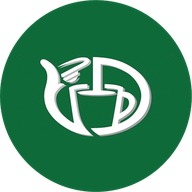
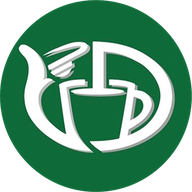
ピンのカップを丸いっぱい近くまで大きく

Changed region(s): [[0.0938, 0.1875, 0.9375, 0.8125]]

diff --git a/index.html b/index.html
@@ -76,7 +76,7 @@ font-size:15px;padding:12px 24px;cursor:pointer;display:inline-flex;align-items:
 .scf-loc .scf-more{border:1px solid var(--g);background:rgba(255,255,255,.7);color:var(--g);border-radius:9999px;padding:10px;font:inherit;font-weight:700;cursor:pointer;transition:all .3s}
 .scf-loc .scf-more:hover{background:rgba(146,175,12,.5)}
 .scf-loc .scf-note{font-size:12px;color:var(--sub);margin-top:10px}
-/* 店舗のピン: 白いしずく型に緑の縁、中央に余白をとってセルフカフェのマーク（mark.png＝カップだけを丸の中央に。文字は外す＝ユーザー指定）。検索結果は大きくして右上に順位（2026-10-17 ユーザーの手描き案） */
+/* 店舗のピン: 白いしずく型に緑の縁、中央に余白をとってセルフカフェのマーク（mark.png＝カップだけを丸いっぱい近く＝直径の8割に。文字は外す＝ユーザー指定）。検索結果は大きくして右上に順位（2026-10-17 ユーザーの手描き案） */
 .scf-loc .scf-mk{cursor:pointer;line-height:0}
 .scf-loc .scf-pinsvg{display:block;width:40px;height:52px;filter:drop-shadow(0 2px 2px rgba(0,0,0,.3));overflow:visible}
 .scf-loc .scf-mk.on .scf-pinsvg{width:54px;height:70px}
@@ -172,7 +172,7 @@ font-family:"Jost",sans-serif;font-size:12px;font-weight:600;display:none;place-
 // 店舗一覧の控え（座標つき）。HP の REST は返事に 8 秒ほどかかるので、まずこれで表示し、最新情報が届いたら差し替える
 var SNAP = [{"id":2691,"name":"セルフカフェ 木曽岬店","url":"https://selfcafe.jp/shop/mie/kisomisaki/","address":"三重県桑名郡木曽岬町大字西対海地２５１木曽岬町役場内１階","time":"[月火水木] 8:30～18:00 [金] 8:30～20:00 [土・日・祝休日]9:00～17:00","holiday":"年末年始","access":"木曽岬町自主運行バス 源緑見入線 木曽岬町体育館駅停留所より徒歩2分","svc":[],"parking":"有","lat":35.075695,"lng":136.73085},{"id":3224,"name":"セルフカフェ フィールズ南柏店","url":"https://selfcafe.jp/shop/chiba/fields-minamikashiwa/","address":"千葉県柏市南柏中央６－７フィールズ南柏モールⅡ３階","time":"10:00～20:00","holiday":"無し","access":"JR 常磐線南柏駅徒歩１分","svc":["koshitu"],"parking":"有","lat":35.844086,"lng":139.955124},{"id":531,"name":"セルフカフェ 印西牧の原店","url":"https://selfcafe.jp/shop/chiba/inzaimakinohara/","address":"千葉県印西市原１－２ＢＩＧＨＯＰガーデンモール印西１階","time":"10:00~20:00","holiday":"無し","access":"北総線 「印西牧の原」駅徒歩10分","svc":[],"parking":"施設内駐車場あり","lat":35.803074,"lng":140.164886},{"id":2306,"name":"セルフカフェ カインズ上里本庄店","url":"https://selfcafe.jp/shop/saitama/cainzkamisatohonjo/","address":"埼玉県児玉郡上里町大字神保原町字北稲塚１８４５","time":"8：00～21：00","holiday":"無し","access":"高崎線 「神保原」駅 徒歩13分","svc":[],"parking":"施設駐車場あり","lat":36.258087,"lng":139.15477},{"id":904,"name":"セルフカフェ あべの南店","url":"https://selfcafe.jp/shop/osaka/abenominami/","address":"大阪府大阪市阿倍野区播磨町１－２１－１３ＤＭビル１階","time":"24時間営業","holiday":"無し","access":"大阪メトロ御堂筋線 「西田辺」駅、徒歩6分","svc":[],"parking":"無し","lat":34.622288,"lng":135.509109},{"id":2442,"name":"セルフカフェ イオンタウン東大阪店","url":"https://selfcafe.jp/shop/osaka/aeontownhigashiosaka/","address":"大阪府東大阪市東鴻池町１－６－３０","time":"7:00～24:00","holiday":"無し","access":"JR学研都市線 「住道駅」徒歩約21分","svc":[],"parking":"施設駐車場あり","lat":34.693275,"lng":135.618057},{"id":1880,"name":"セルフカフェ 上新庄店","url":"https://selfcafe.jp/shop/osaka/kamishinjo/","address":"大阪府大阪市東淀川区瑞光１－１２－１２至誠ビル１０２","time":"5:00～24:30","holiday":"無し","access":"阪急京都線 「上新庄」駅、徒歩1分","svc":["koshitu"],"parking":"無し","lat":34.749062,"lng":135.533859},{"id":1203,"name":"セルフカフェ 京橋北店","url":"https://selfcafe.jp/shop/osaka/kyoubashikita/","address":"大阪府大阪市都島区東野田町５－１５－５大野マンション１階","time":"24時間営業","holiday":"無し","access":"JR大阪環状線・JR東西線・JR片町線・京阪本線・大阪メトロ長堀鶴見緑地線 「京橋」駅、徒歩8分","svc":["koshitu"],"parking":"無し","lat":34.702007,"lng":135.535294},{"id":922,"name":"セルフカフェ 南森町店","url":"https://selfcafe.jp/shop/osaka/minamimorimati/","address":"大阪府大阪市北区東天満２－１０－３１第９田渕ビル１階","time":"24時間営業","holiday":"無し","access":"ＪＲ東西線・学研都市線 「大阪天満宮」駅、徒歩5分 大阪メトロ堺筋線 「南森町」駅、徒歩5分","svc":[],"parking":"無し","lat":34.698376,"lng":135.513626},{"id":1485,"name":"セルフカフェ 喜志店","url":"https://selfcafe.jp/shop/osaka/kishi/","address":"大阪府富田林市喜志５－３－３７メゾン・ド・ＭＩＹＡＶＩ１０１号室","time":"24時間営業","holiday":"無し","access":"近鉄長野線 「喜志」駅、徒歩3分","svc":["koshitu"],"parking":"無し","lat":34.521835,"lng":135.593506},{"id":1962,"name":"セルフカフェ 大阪平野西店","url":"https://selfcafe.jp/shop/osaka/osakahiranonishi/","address":"大阪府大阪市平野区平野西５－７－２Ｆｅｒｉｏ１階","time":"24時間営業","holiday":"無し","access":"大阪メトロ谷町線 「平野」駅、徒歩5分","svc":["koshitu"],"parking":"無し","lat":34.61924,"lng":135.546906},{"id":495,"name":"セルフカフェ 天満店","url":"https://selfcafe.jp/shop/osaka/tenma/","address":"大阪府大阪市北区天神橋３－８－２３コア扇町２階","time":"5:00～翌2:00","holiday":"無し","access":"大阪環状線「天満駅」徒歩5分。 大阪メトロ堺筋線「扇町駅」徒歩2分。","svc":["koshitu","kaigi","member"],"parking":"無し","lat":34.702076,"lng":135.511459},{"id":2852,"name":"セルフカフェ 天満橋北店","url":"https://selfcafe.jp/shop/osaka/tenmabashikita/","address":"大阪府大阪市中央区大手前１－３－４９ドーンセンター１階","time":"[火～土]9:00～21:30 [日・祝]9:00～17:00","holiday":"月曜日（祝日・振替休日を除く）・年末年始","access":"京阪本線・Osaka Metro谷町線「天満橋」駅 1番出入口より徒歩3分 JR東西線「大阪城北詰」駅 2号出口より徒歩5分","svc":[],"parking":"無し","lat":34.689968,"lng":135.520569},{"id":1201,"name":"セルフカフェ 太子橋店","url":"https://selfcafe.jp/shop/osaka/taishibashi/","address":"大阪府守口市京阪本通１－２－１０京阪キクマビル１０１号室","time":"24時間営業","holiday":"無し","access":"谷町線・今里筋線 「太子橋今市」駅、徒歩5分","svc":["koshitu"],"parking":"無し","lat":34.732952,"lng":135.557343},{"id":1103,"name":"セルフカフェ 守口駅前店","url":"https://selfcafe.jp/shop/osaka/moriguchiekimae/","address":"大阪府守口市京阪本通２－１６－８メゾンレクト１０２","time":"24時間営業","holiday":"無し","access":"大阪メトロ谷町線 「守口」駅、徒歩3分","svc":[],"parking":"無し","lat":34.738842,"lng":135.564102},{"id":1211,"name":"セルフカフェ 心斎橋東急ビル店","url":"https://selfcafe.jp/shop/osaka/shinsaibashitokyuubiru/","address":"大阪府大阪市中央区南船場４－４－３心斎橋東急ビルＢ１階","time":"5：00～24：00","holiday":"無し","access":"御堂筋線「心斎橋」駅、徒歩1分。","svc":[],"parking":"無し","lat":34.675686,"lng":135.500076},{"id":763,"name":"セルフカフェ 東大阪小若江店","url":"https://selfcafe.jp/shop/osaka/kowakae/","address":"大阪府東大阪市小若江２－９－３３アバハイム西村","time":"24時間営業","holiday":"無し","access":"近鉄大阪線 「長瀬」駅、徒歩で10分","svc":[],"parking":"無し","lat":34.648731,"lng":135.583664},{"id":1568,"name":"セルフカフェ 梅田センタービル店","url":"https://selfcafe.jp/shop/osaka/umedacenterbldg/","address":"大阪府大阪市北区中崎西２－４－１２梅田センタービル地下１階","time":"6:30～23:30","holiday":"無し","access":"阪急電鉄 「大阪梅田」駅、徒歩７分。 大阪メトロ谷町線 「中崎町」駅、徒歩４分","svc":[],"parking":"無し","lat":34.705372,"lng":135.501572},{"id":760,"name":"セルフカフェ 相川駅前店","url":"https://selfcafe.jp/shop/osaka/aikawaekimae/","address":"大阪府大阪市東淀川区相川２－２０－８上本第二ビル１階","time":"5：00～4：00","holiday":"無し","access":"阪急京都本線 「相川」駅、徒歩1分","svc":[],"parking":"無し","lat":34.758106,"lng":135.534393},{"id":2445,"name":"セルフカフェ 蒲生四丁目店","url":"https://selfcafe.jp/shop/osaka/gamoyonchome/","address":"大阪府大阪市城東区今福西１－７－２蒲生四丁目駅前ビル２階","time":"24時間営業","holiday":"無し","access":"Osaka Metro 長堀鶴見緑地線・今里筋線 「蒲生四丁目」駅 徒歩約1分","svc":["koshitu"],"parking":"無し","lat":34.699749,"lng":135.546432},{"id":950,"name":"セルフカフェ 谷町九丁目店","url":"https://selfcafe.jp/shop/osaka/tanimachi9choume/","address":"大阪府大阪市中央区谷町９－５－１６バロンヴェールビル１０１","time":"24時間営業","holiday":"無し","access":"大阪メトロ千日前線, 谷町線 「谷町九丁目」駅、徒歩1分","svc":["koshitu","copy"],"parking":"無し","lat":34.668152,"lng":135.515823},{"id":3384,"name":"セルフカフェ 鶴見横堤店","url":"https://selfcafe.jp/shop/osaka/tsurumiyokozutsumi/","address":"大阪府大阪市鶴見区横堤３－１０－１９堤之ビル２階","time":"24時間","holiday":"無し","access":"大阪メトロ長堀鶴見緑地線「横堤駅」より徒歩2分","svc":["koshitu"],"parking":"無し","lat":34.703575,"lng":135.573547},{"id":3247,"name":"セルフカフェ大阪駅前第４ビル店","url":"https://selfcafe.jp/shop/osaka/osaka-ekimae4-building/","address":"大阪府大阪市北区梅田１－１１－４大阪駅前第４ビル１階４０号","time":"7:00～23:45","holiday":"毎年1月1日～3日","access":"大阪メトロ谷町線東梅田駅南改札より徒歩約1分（直結） JR東西線北新地駅東改札より徒歩約3分（地下街直結） 大阪メトロ御堂筋線梅田駅南改札より 徒歩約5分","svc":[],"parking":"無し","lat":34.699581,"lng":135.499298},{"id":3239,"name":"セルフカフェ イオンタウン大垣","url":"https://selfcafe.jp/shop/gifu/aeontown-ogaki/","address":"岐阜県大垣市三塚町丹瀬４６３－１イオンタウン大垣内","time":"10:30~22:00","holiday":"無し","access":"JR東海道本線 大垣駅 徒歩20分","svc":["koshitu","kaigi"],"parking":"有り","lat":35.365883,"lng":136.629562},{"id":2249,"name":"セルフカフェ イオンタウン岐阜北方店","url":"https://selfcafe.jp/shop/gifu/aeontowngifukitagata/","address":"岐阜県本巣郡北方町曲路東３－３－１イオンタウン岐阜北方内","time":"8：00～22：00","holiday":"無し","access":"JR岐阜駅よりバス約23分 「イオンタウン岐阜北方」下車","svc":[],"parking":"施設駐車場あり","lat":35.429836,"lng":136.697495},{"id":1480,"name":"セルフカフェ 盛岡大通店","url":"https://selfcafe.jp/shop/iwate/moriokaoodori/","address":"岩手県盛岡市大通２－３－４","time":"5：00～24：00","holiday":"無し","access":"東北新幹線.JR 「盛岡」駅、徒歩15分。 路線バス中央通2丁目 「中央通2丁目」、徒歩5分。","svc":["koshitu","kaigi"],"parking":"無し","lat":39.703125,"lng":141.146729},{"id":1106,"name":"セルフカフェ 盛岡駅前店","url":"https://selfcafe.jp/shop/iwate/moriokaekimae/","address":"岩手県盛岡市盛岡駅前通１５－１６ＳＳビル盛岡","time":"24時間営業","holiday":"無し","access":"JR東北本線 盛岡駅北口、徒歩1分。","svc":[],"parking":"無し","lat":39.703175,"lng":141.136002},{"id":1225,"name":"セルフカフェ T-FACE豊田店","url":"https://selfcafe.jp/shop/aichi/toyota/","address":"愛知県豊田市若宮町１－５７－１Ｔ－ＦＡＣＥ６階","time":"10：00～20：00","holiday":"無し","access":"名鉄豊田線・名鉄三河線・地下鉄鶴舞線・愛知環状鉄道 「豊田市」駅、徒歩1分","svc":["koshitu","kaigi","copy"],"parking":"施設駐車場あり","lat":35.087593,"lng":137.155624},{"id":96,"name":"セルフカフェ ささしまライブ店","url":"https://selfcafe.jp/shop/aichi/sasashima/","address":"愛知県名古屋市中村区平池町４－６０－１４マーケットスクエアささしま１階","time":"8:00~22:00","holiday":"無し","access":"JR・名鉄 JR、名鉄、近鉄、名古屋市営地下鉄東山線・桜通線「名古屋」駅、徒歩13分。 あおなみ線 名古屋臨海高速鉄道あおなみ線「ささしまライブ」駅より徒歩4分。","svc":["kaigi"],"parking":"無し","lat":35.16172,"lng":136.882553},{"id":1109,"name":"セルフカフェ クラスポ蒲郡店","url":"https://selfcafe.jp/shop/aichi/gamagori/","address":"愛知県蒲郡市鹿島町浅井新田１－２６","time":"10:00～20:00","holiday":"無し","access":"名鉄蒲郡線 「三河鹿島」駅、徒歩10分。","svc":[],"parking":"施設内駐車場あり","lat":34.811646,"lng":137.195023},{"id":745,"name":"セルフカフェ ナディアパーク栄店","url":"https://selfcafe.jp/shop/aichi/nadyaparksakae/","address":"愛知県名古屋市中区栄３－１８－１ナディアパーククレアーレ内１階","time":"11:00~20:00","holiday":"無し","access":"名古屋市営東山線・名城線 「栄」駅、徒歩で10分。 名古屋市名城線 「矢場町」駅、徒歩で10分。","svc":[],"parking":"無し","lat":35.165794,"lng":136.904938},{"id":1123,"name":"セルフカフェ ルビットタウン刈谷店","url":"https://selfcafe.jp/shop/aichi/luvittown-kariya/","address":"愛知県刈谷市高倉町２－６０１ルビットタウン刈谷１階","time":"月～土：10:00～20:00 日：9:30～20:00","holiday":"無し","access":"JR東海道本線 「逢妻」駅、徒歩19分","svc":[],"parking":"施設駐車場あり","lat":35.002117,"lng":136.998566},{"id":384,"name":"セルフカフェ 中村日赤店","url":"https://selfcafe.jp/shop/aichi/nakamuranisseki/","address":"愛知県名古屋市中村区寿町１０","time":"5:00～翌4:00","holiday":"無し","access":"名古屋市営地下鉄東山線「中村日赤」駅徒歩8分","svc":["koshitu","kaigi"],"parking":"無し","lat":35.170979,"lng":136.866837},{"id":989,"name":"セルフカフェ 中村日赤鳥居通店","url":"https://selfcafe.jp/shop/aichi/toriidori/","address":"愛知県名古屋市中村区鳥居通４－１６","time":"24時間営業","holiday":"無し","access":"名古屋市営地下鉄東山線 「中村日赤」駅、徒歩3分","svc":["koshitu"],"parking":"無し","lat":35.170956,"lng":136.859543},{"id":3289,"name":"セルフカフェ 丸の内店","url":"https://selfcafe.jp/shop/aichi/marunouchi/","address":"愛知県名古屋市中区錦２－６－１５ＮＨＮＩＳＨＩＫＩ３階","time":"6:00～24:00","holiday":"無し","access":"名古屋市営地下鉄桜通線 丸の内駅5番出口 徒歩2分","svc":["koshitu","kaigi"],"parking":"無し","lat":35.171684,"lng":136.900604},{"id":985,"name":"セルフカフェ 亀島店","url":"https://selfcafe.jp/shop/aichi/kamejima/","address":"愛知県名古屋市中村区佐古前町２２－１３森ビル１階","time":"6：00～翌1：00","holiday":"無し","access":"名古屋市営地下鉄東山線 「亀島」駅、徒歩5分","svc":["koshitu"],"parking":"無し","lat":35.177708,"lng":136.872711},{"id":543,"name":"セルフカフェ 六番町店","url":"https://selfcafe.jp/shop/aichi/rokubancho/","address":"愛知県名古屋市熱田区六番２－８－３２","time":"7:00~24:00","holiday":"無し","access":"名古屋市営地下鉄名港線 「六番町」駅徒歩8分","svc":[],"parking":"無し","lat":35.121223,"lng":136.888214},{"id":93,"name":"セルフカフェ 千種店","url":"https://selfcafe.jp/shop/aichi/chikusa/","address":"愛知県名古屋市東区葵３－２５－１５シティファミール千種","time":"24時間","holiday":"無し","access":"JR東海 中央本線 名古屋市営地下鉄東山線「千種」駅、徒歩1分。","svc":["koshitu"],"parking":"無し","lat":35.169899,"lng":136.929626},{"id":2080,"name":"セルフカフェ 原店","url":"https://selfcafe.jp/shop/aichi/hara/","address":"愛知県名古屋市天白区原１－２０７原駅前ビル１階","time":"6：00～翌1：00","holiday":"無し","access":"名古屋市営地下鉄鶴舞線 「原」駅、徒歩1分","svc":["kaigi"],"parking":"無し","lat":35.126011,"lng":136.995361},{"id":993,"name":"セルフカフェ 太閤通駅店","url":"https://selfcafe.jp/shop/aichi/taikodorieki/","address":"愛知県名古屋市中村区黄金通１－２９","time":"5:00~翌3:00","holiday":"無し","access":"名古屋市営地下鉄桜通線 「太閤通」駅、徒歩1分","svc":["koshitu","kaigi","member","copy"],"parking":"無し","lat":35.167114,"lng":136.872177},{"id":3353,"name":"セルフカフェ 安城駅店","url":"https://selfcafe.jp/shop/aichi/anjoeki/","address":"愛知県安城市御幸本町１－１","time":"5:00～翌2:00","holiday":"無し","access":"JR東海道本線 安城駅 徒歩１分","svc":["koshitu"],"parking":"無し","lat":34.959995,"lng":137.086914},{"id":879,"name":"セルフカフェ 布袋駅店","url":"https://selfcafe.jp/shop/aichi/hoteieki/","address":"愛知県江南市布袋町西布２１８ＭＯＫＵＫＩＣＨＩ１０区画","time":"24時間営業","holiday":"無し","access":"名鉄犬山線 「布袋駅」駅、徒歩1分","svc":[],"parking":"無し","lat":35.31786,"lng":136.872589},{"id":457,"name":"セルフカフェ 常滑店","url":"https://selfcafe.jp/shop/aichi/tokoname/","address":"愛知県常滑市鯉江本町５－１４０ミュープラット常滑","time":"5:00～翌4:00","holiday":"無し","access":"名古屋鉄道常滑線「常滑」駅徒歩1分","svc":[],"parking":"無し","lat":34.889641,"lng":136.835358},{"id":1099,"name":"セルフカフェ 幸田店","url":"https://selfcafe.jp/shop/aichi/kota/","address":"愛知県額田郡幸田町相見沖原１","time":"24時間営業","holiday":"無し","access":"JR東海道本線「相見」駅、徒歩10分","svc":["koshitu","member"],"parking":"施設内多数あり（カメリアガーデン内）","lat":34.887058,"lng":137.162903},{"id":346,"name":"セルフカフェ 御器所店","url":"https://selfcafe.jp/shop/aichi/gokiso/","address":"愛知県名古屋市昭和区阿由知通４－１８－１トーカンマンション御器所","time":"7:00~22:00","holiday":"無し","access":"名古屋市営地下鉄桜通線・鶴舞線「御器所」駅4番出口徒歩1分","svc":[],"parking":"無し","lat":35.147488,"lng":136.933273},{"id":459,"name":"セルフカフェ 新守山店","url":"https://selfcafe.jp/shop/aichi/shinmoriyama/","address":"愛知県名古屋市守山区新守山２８３０アピタパワー新守山２階","time":"10:00～22:00","holiday":"無し","access":"JR中央本線 「新守山」駅徒歩5分","svc":[],"parking":"施設内駐車場あり","lat":35.204765,"lng":136.948975},{"id":773,"name":"セルフカフェ 新瑞橋店","url":"https://selfcafe.jp/shop/aichi/aratamabashi/","address":"愛知県名古屋市瑞穂区瑞穂通８－１３－３","time":"6:00~翌3:00","holiday":"無し","access":"名古屋市営地下鉄桜通線 「新瑞橋」駅、徒歩1分","svc":[],"parking":"無し","lat":35.117249,"lng":136.936432},{"id":1207,"name":"セルフカフェ 日比野店","url":"https://selfcafe.jp/shop/aichi/hibino/","address":"愛知県名古屋市熱田区千代田町１３－４三木ビル１階","time":"6：00～24：00","holiday":"無し","access":"名古屋市営地下鉄 「日比野」駅、徒歩5分 名古屋市バス 「中央卸売市場前」駅、徒歩1分","svc":["koshitu","kaigi"],"parking":"無し","lat":35.135857,"lng":136.893005},{"id":1209,"name":"セルフカフェ 星ヶ丘店","url":"https://selfcafe.jp/shop/aichi/hoshigaoka/","address":"愛知県名古屋市千種区井上町５０－１ＣＯＺＹＰＬＡＣＥ星ヶ丘１階","time":"6：00～翌1：00","holiday":"無し","access":"名古屋市営地下鉄東山線 「星ヶ丘」駅、徒歩3分","svc":["koshitu"],"parking":"無し","lat":35.161858,"lng":136.983032},{"id":3282,"name":"セルフカフェ 本陣店","url":"https://selfcafe.jp/shop/aichi/honjin/","address":"愛知県名古屋市中村区鳥居通２－１０","time":"6:00～24:00","holiday":"無し","access":"名古屋市営地下鉄東山線 本陣駅4番出口 徒歩1分","svc":["koshitu","kaigi"],"parking":"無し","lat":35.175903,"lng":136.866028},{"id":535,"name":"セルフカフェ 栄店","url":"https://selfcafe.jp/shop/aichi/sakae/","address":"愛知県名古屋市中区錦３－１７－１５ドン・キホーテ栄本店６階","time":"6:00~翌2:00","holiday":"無し","access":"名古屋市営地下鉄東山線・名城線「栄」駅より徒歩1分。 名古屋鉄道瀬戸線「栄町」駅より徒歩5分","svc":[],"parking":"無し","lat":35.170097,"lng":136.90657},{"id":875,"name":"セルフカフェ 栄生店","url":"https://selfcafe.jp/shop/aichi/sako/","address":"愛知県名古屋市西区栄生２－４－５","time":"5:00～翌4:00","holiday":"無し","access":"名鉄名古屋本線 「栄生」駅、徒歩1分","svc":["koshitu","member"],"parking":"無し","lat":35.184032,"lng":136.873901},{"id":379,"name":"セルフカフェ 桜山店","url":"https://selfcafe.jp/shop/aichi/sakurayama/","address":"愛知県名古屋市昭和区広見町５－５６－６プチメゾン桜山","time":"5:00～翌4:00","holiday":"無し","access":"名古屋市営地下鉄桜通線「桜山」駅徒歩5分","svc":[],"parking":"無し","lat":35.140938,"lng":136.930359},{"id":1277,"name":"セルフカフェ 池下店","url":"https://selfcafe.jp/shop/aichi/ikeshita/","address":"愛知県名古屋市千種区池下１－１１－１１第４６プロスパー池下２階","time":"24時間営業","holiday":"無し","access":"名古屋市営地下鉄東山線 「池下」駅、徒歩1分","svc":["koshitu","kaigi","member"],"parking":"無し","lat":35.167633,"lng":136.945343},{"id":449,"name":"セルフカフェ 瀬戸岩屋堂店","url":"https://selfcafe.jp/shop/aichi/setoiwayado/","address":"愛知県瀬戸市岩屋町８１","time":"5:00～翌4:00","holiday":"無し","access":"国定公園「岩屋堂公園内」","svc":[],"parking":"無料駐車場多数あり ※有料になる時期もあります","lat":35.239231,"lng":137.156616},{"id":59,"name":"セルフカフェ 神沢店","url":"https://selfcafe.jp/shop/aichi/kamisawa/","address":"愛知県名古屋市緑区神沢１－２０５","time":"5:00～翌4:00","holiday":"無し","access":"名古屋市営地下鉄桜通線「神沢」駅徒歩1分。","svc":[],"parking":"無し","lat":35.098301,"lng":136.98941},{"id":386,"name":"セルフカフェ 緑鴻仏目店","url":"https://selfcafe.jp/shop/aichi/midorikoubutsume/","address":"愛知県名古屋市緑区鴻仏目１－１０２ベルインビルＢ棟","time":"5:00～翌4:00","holiday":"無し","access":"名古屋市営地下鉄桜通線「徳重」駅 車10分","svc":["koshitu"],"parking":"2台","lat":35.080513,"lng":136.978073},{"id":2084,"name":"セルフカフェ 藤が丘店","url":"https://selfcafe.jp/shop/aichi/fujigaoka/","address":"愛知県名古屋市名東区明が丘１２５藤が丘コーポラス１階","time":"6：00～翌0：00","holiday":"無し","access":"名古屋市営地下鉄東山線 「藤が丘」駅、徒歩1分","svc":["koshitu","kaigi"],"parking":"無し","lat":35.182354,"lng":137.019913},{"id":407,"name":"セルフカフェ 赤塚店","url":"https://selfcafe.jp/shop/aichi/akatsuka/","address":"愛知県名古屋市東区山口町１－２４エノキドビル１階・２階","time":"5:00～翌4:00","holiday":"無し","access":"名鉄瀬戸線「森下」駅徒歩10分","svc":[],"parking":"無し","lat":35.183552,"lng":136.924377},{"id":538,"name":"セルフカフェ 野並店","url":"https://selfcafe.jp/shop/aichi/nonami/","address":"愛知県名古屋市天白区野並３－４０１アサノビル２階","time":"5:00~22:00","holiday":"無し","access":"名古屋市営地下鉄桜通線「野並」駅徒歩1分","svc":[],"parking":"無し","lat":35.10173,"lng":136.955811},{"id":3225,"name":"セルフカフェ 高畑店","url":"https://selfcafe.jp/shop/aichi/takabata/","address":"愛知県名古屋市中川区高畑５－１５６－１","time":"6:00～24:00","holiday":"無し","access":"名古屋市営地下鉄東山線八田駅4番出口 徒歩5分 名古屋市営地下鉄東山線高畑駅2番出口 徒歩5分","svc":["koshitu","kaigi","member"],"parking":"無し","lat":35.143929,"lng":136.852829},{"id":2359,"name":"セルフカフェ 鳴海山下店","url":"https://selfcafe.jp/shop/aichi/narumiyamashita/","address":"愛知県名古屋市緑区鳴海町山下７８－１コナミスポーツクラブ鳴海山下内","time":"[月水木金] 10:00～22:00 [土] 10:00～20:00 [日・祝休日] 10:00～18:00","holiday":"火曜日","access":"名古屋市営地下鉄 桜通線 「野並駅」徒歩約15分","svc":[],"parking":"施設駐車場あり","lat":35.093269,"lng":136.949295},{"id":355,"name":"セルフカフェ 鶴舞店","url":"https://selfcafe.jp/shop/aichi/tsurumai/","address":"愛知県名古屋市中区千代田３－３－３ＴＫ１ｓｔビル","time":"5:00～翌4:00","holiday":"無し","access":"名古屋市営地下鉄鶴舞線「鶴舞」駅 徒歩5分 名古屋市営地下鉄鶴舞線「上前津」駅 3番出口徒歩6分","svc":[],"parking":"無し","lat":35.156414,"lng":136.911194},{"id":667,"name":"セルフカフェ名駅西口店","url":"https://selfcafe.jp/shop/aichi/meiekinishiguchi/","address":"愛知県名古屋市中村区椿町６－２三共ビル１階","time":"5:00~翌1:00","holiday":"無し","access":"JR、名鉄、近鉄、名古屋市営地下鉄東山線・桜通線「名古屋」駅、徒歩1分。","svc":[],"parking":"無し","lat":35.170887,"lng":136.879517},{"id":675,"name":"セルフカフェ長久手店","url":"https://selfcafe.jp/shop/aichi/nagakute/","address":"愛知県長久手市戸田９０１－１アピタ長久手２階フードコート内","time":"9:00~21:30","holiday":"無し","access":"愛知高速交通東部丘陸線 リニモ「杁ヶ池公園」直結","svc":["member"],"parking":"施設内多数あり","lat":35.173565,"lng":137.037491},{"id":2818,"name":"セルフカフェ 千歳烏山店","url":"https://selfcafe.jp/shop/tokyo/chitosekarasuyama/","address":"東京都世田谷区南烏山６－３－１４池田ビル３階","time":"5：00～翌25：00","holiday":"無し","access":"京王線千歳烏山駅徒歩２分","svc":["koshitu"],"parking":"無し","lat":35.669674,"lng":139.600525},{"id":1517,"name":"セルフカフェ 大塚駅南口店","url":"https://selfcafe.jp/shop/tokyo/otsukaminamiguchi/","address":"東京都豊島区南大塚２－４６－３大塚グリーンビル６階","time":"6:00～24:00","holiday":"無し","access":"ＪＲ山手線 「大塚」駅、徒歩1分","svc":["koshitu"],"parking":"無し","lat":35.731083,"lng":139.729507},{"id":1683,"name":"セルフカフェ 巣鴨駅南口店","url":"https://selfcafe.jp/shop/tokyo/sugamominamiguchi/","address":"東京都豊島区巣鴨１－１７－８ｎＺ１１７８ビル２階","time":"5:00～翌1:00","holiday":"無し","access":"ＪＲ山手線 「巣鴨」駅、徒歩1分","svc":["member"],"parking":"無し","lat":35.732693,"lng":139.739151},{"id":2255,"name":"セルフカフェ 新宿西口Shinjuku Future Gallery店","url":"https://selfcafe.jp/shop/tokyo/shinjukunishiguchi/","address":"東京都新宿区西新宿１－５－１１新宿三葉ビル１階","time":"10:00～20:00","holiday":"日曜・年末年始休み","access":"JR・小田急・京王・東京メトロ・都営地下鉄 「新宿」駅 徒歩１分","svc":[],"parking":"無し","lat":35.692627,"lng":139.698029},{"id":2816,"name":"セルフカフェ 早稲田店","url":"https://selfcafe.jp/shop/tokyo/waseda/","address":"東京都新宿区馬場下町６１－６高橋ビル４階","time":"2026年8月15日OPEN 6：00～24：00","holiday":"無し","access":"東京メトロ 東西線早稲田駅徒歩1分","svc":["koshitu"],"parking":"無し","lat":35.70612,"lng":139.720352},{"id":1693,"name":"セルフカフェ 梅島店","url":"https://selfcafe.jp/shop/tokyo/umejima/","address":"東京都足立区梅田８－３－９石井サニービル４階","time":"5:00～翌4:00","holiday":"無し","access":"東武スカイツリーライン 梅島駅 徒歩1分","svc":[],"parking":"無し","lat":35.772583,"lng":139.79747},{"id":2087,"name":"セルフカフェ 渋谷神南店","url":"https://selfcafe.jp/shop/tokyo/shibuyajinnan/","address":"東京都渋谷区神南１－１９－１４クリスタルポイント地下２階","time":"6:00～翌2:00","holiday":"無し","access":"JR・東急・京王・東京メトロ 「渋谷」駅、徒歩5分","svc":["koshitu","kaigi","member","copy"],"parking":"無し","lat":35.662666,"lng":139.699677},{"id":2104,"name":"セルフカフェ イオンタウン彦根店","url":"https://selfcafe.jp/shop/shiga/aeontownhikone/","address":"滋賀県彦根市古沢町２５５－１イオンタウン彦根内","time":"9:00～22:00","holiday":"無し","access":"ＪＲ東海道本線 「彦根」駅、徒歩10分","svc":[],"parking":"施設駐車場あり","lat":35.271404,"lng":136.26799},{"id":455,"name":"セルフカフェ 浜松新橋店","url":"https://selfcafe.jp/shop/shizuoak/hamamatsu/","address":"静岡県浜松市中央区新橋町１４００－１イオンタウン浜松新橋","time":"5:00~翌4:00","holiday":"無し","access":"JR東海道本線 「浜松駅」より車で15分","svc":[],"parking":"施設内駐車場あり","lat":34.679379,"lng":137.711365},{"id":2157,"name":"セルフカフェ 鳥取駅前店","url":"https://selfcafe.jp/shop/tottori/tottoriekimae/","address":"鳥取県鳥取市永楽温泉町１６０日交駅前ビル１階","time":"24時間営業","holiday":"無し","access":"JR山陰本線・因美線 「鳥取」駅、徒歩1分","svc":[],"parking":"無し","lat":35.494823,"lng":134.227798}];
 var SHOP_API = "https://selfcafe.jp/wp-json/wp/v2/shop?per_page=100&_fields=id,link,title,acf";
-var MARK = "mark.png?v=4";  // ピンに入れるセルフカフェのマーク（このページと同じ場所に置く）
+var MARK = "mark.png?v=5";  // ピンに入れるセルフカフェのマーク（このページと同じ場所に置く）
 var GMAPS = {"key": "AIzaSyAp8aSpDZnlo-TSvO7ahg4OE2WRiT2RXBg", "mapId": "dab2d924dc1d382b14afcc83"};  // Google マップの APIキー（selfcafe.jp・selfcafe.github.io だけで使える制限つき）と マップID
 // 設備・サービスの条件（HP の店舗案内の「有料サービス」・営業時間・定休日・駐車場から判定）
 var FEATURES = [
